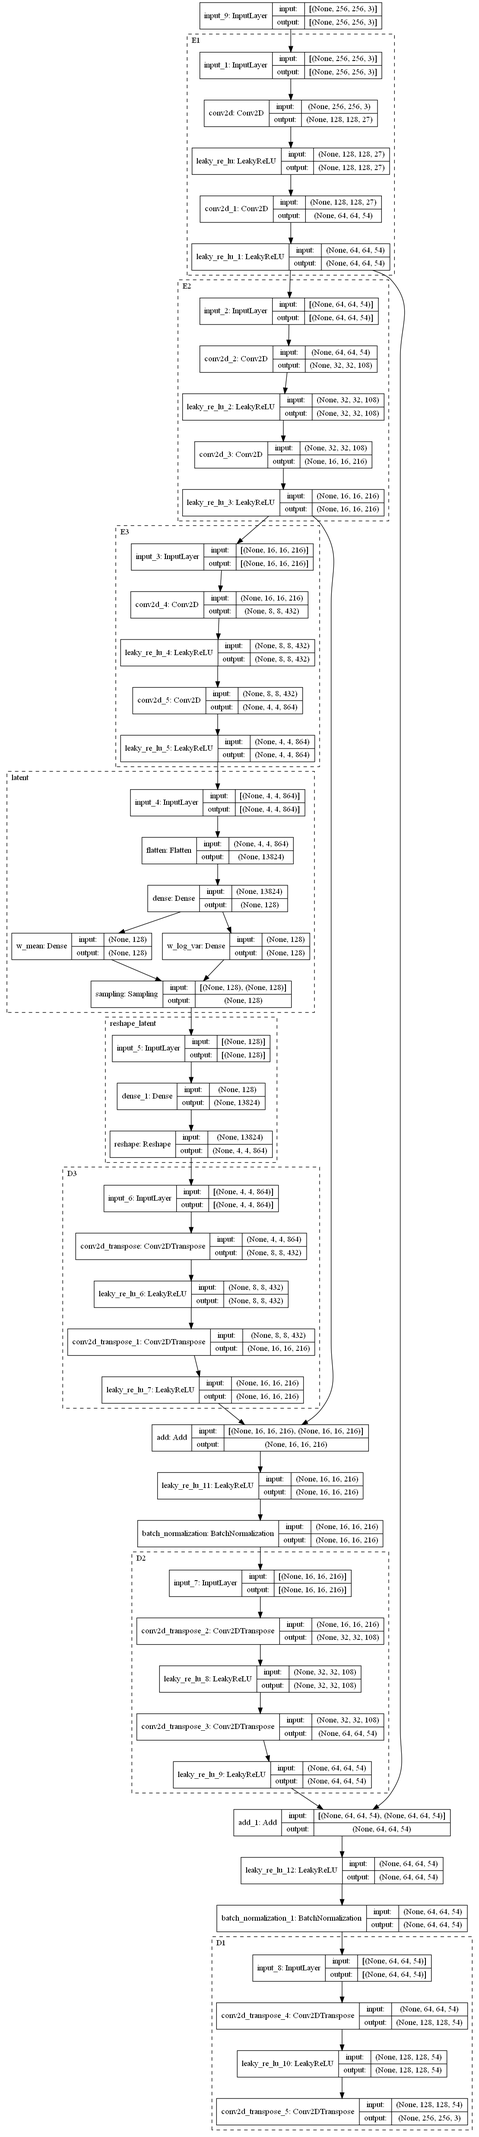
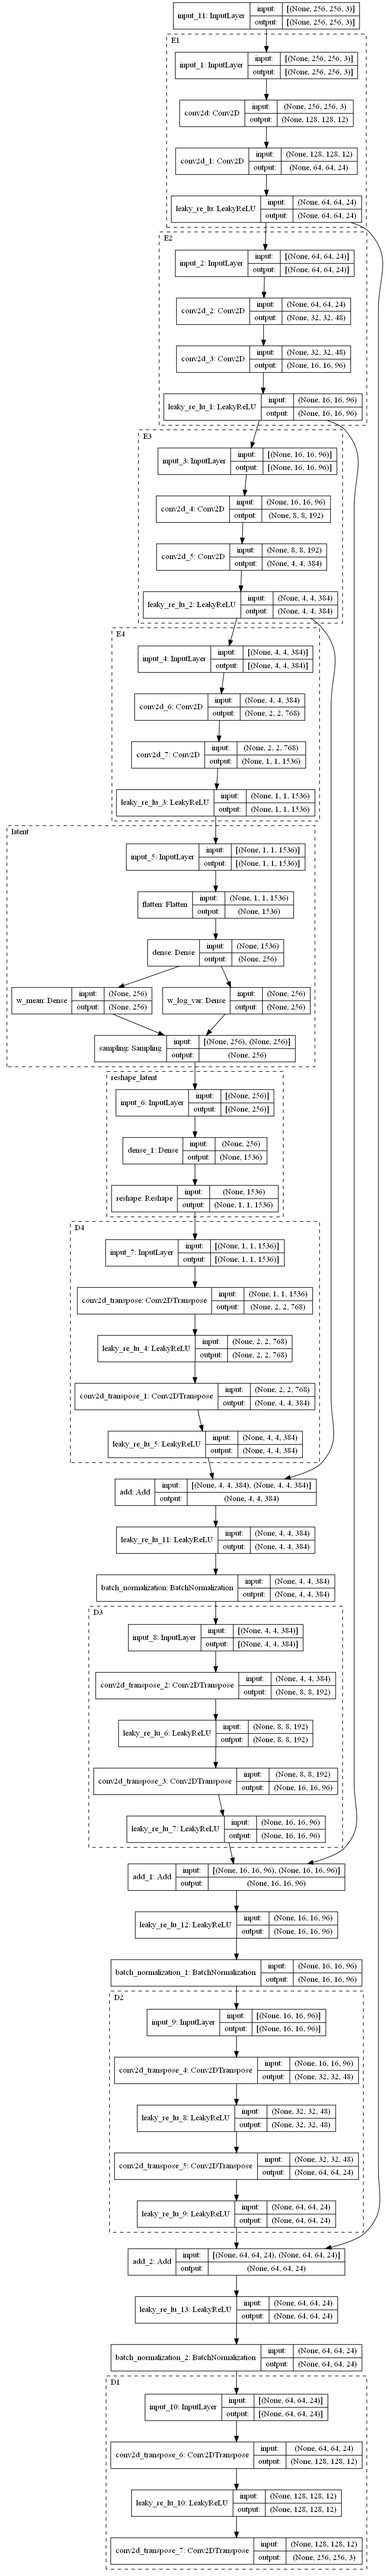
Continued improving model hyperparameters

Changed region(s): [[0.1517, 0.0, 0.9708, 0.9978]]

diff --git a/StyleNetV3.py b/StyleNetV3.py
@@ -1,5 +1,5 @@
 import tensorflow as tf
-import keract
+import numpy as np
 import os
 import time
 from tensorflow.python.keras.backend import set_session
@@ -15,11 +15,11 @@ sess = tf.compat.v1.InteractiveSession(config=tf.compat.v1.ConfigProto(gpu_optio
 set_session(sess)
 
 identity_lr = 1
-kl_lr = 0.06
+kl_lr = .1
 num_epochs = 200
-num_filters = 27
-batch_size = 16
-learning_rate = 1e-3
+num_filters = 6
+batch_size = 4
+learning_rate = 1e-4
 optimizer = tf.keras.optimizers.Adam(learning_rate=learning_rate)
 cross_entropy = tf.keras.losses.BinaryCrossentropy(from_logits=True)
 model_name = 'V3'
@@ -36,7 +36,7 @@ def lrelu_bn(inputs):
 
 def enc_unit(inp, filter_mult=1, name='enc'):
     x = conv2D(num_filters*filter_mult, kernel_size=(3, 3), strides=(2, 2), padding='same')(inp)
-    x = tf.keras.layers.LeakyReLU()(x)
+    # x = tf.keras.layers.LeakyReLU()(x)
     x = conv2D(num_filters*filter_mult*2, kernel_size=(3, 3), strides=(2, 2), padding='same')(x)
     x = tf.keras.layers.LeakyReLU()(x)
     return tf.keras.Model(inputs=inp, outputs=x, name=name)
@@ -63,9 +63,9 @@ def latent(inp, latent_dims=128, name='latent'):
     return tf.keras.Model(inputs=inp, outputs=[w, w_mean, w_log_var], name=name)
 
 
-def reshape_latent(inp, name='reshape_latent'):
-    x = tf.keras.layers.Dense(4 * 4 * 32 * num_filters, activation='relu')(inp)
-    x = tf.keras.layers.Reshape((4, 4, num_filters * 32))(x)
+def reshape_latent(inp, out_shape, name='reshape_latent'):
+    x = tf.keras.layers.Dense(4*4*4*4 * num_filters, activation='relu')(inp)
+    x = tf.keras.layers.Reshape(out_shape)(x)
     return tf.keras.Model(inputs=inp, outputs=x, name=name)
 
 
@@ -79,29 +79,35 @@ class AE_A(tf.keras.Model):
 
         inp1 = tf.keras.Input(shape=(256, 256, 3))
         print(inp1.get_shape())
-        self.enc1 = enc_unit(inp=inp1, filter_mult=1, name='E1')
+        self.enc1 = enc_unit(inp=inp1, filter_mult=2, name='E1')
         print(self.enc1.output_shape)
-        inp2 = tf.keras.Input(shape=(64, 64, 54))
-        self.enc2 = enc_unit(inp=inp2, filter_mult=4, name='E2')
+        inp2 = tf.keras.Input(shape=(64, 64, 4*num_filters))
+        self.enc2 = enc_unit(inp=inp2, filter_mult=8, name='E2')
         print(self.enc2.output_shape)
-        inp3 = tf.keras.Input(shape=(16, 16, 216))
-        self.enc3 = enc_unit(inp=inp3, filter_mult=16, name='E3')
+        inp3 = tf.keras.Input(shape=(16, 16, 4*4*num_filters))
+        self.enc3 = enc_unit(inp=inp3, filter_mult=32, name='E3')
         print(self.enc3.output_shape)
+        inp4 = tf.keras.Input(shape=(4, 4, 4*4*4*num_filters))
+        self.enc4 = enc_unit(inp=inp4, filter_mult=128, name='E4')
+        print(self.enc4.output_shape)
 
-        inp_latent = tf.keras.Input(shape=(4, 4, 864))
-        self.latent1 = latent(inp=inp_latent)
+        inp_latent = tf.keras.Input(shape=(1, 1, 4*4*4*4*num_filters))
+        self.latent1 = latent(inp=inp_latent, latent_dims=256)
         print(self.latent1.output_shape[0])
-        inp_reshape = tf.keras.Input(shape=(128,))
-        self.reshape_l = reshape_latent(inp_reshape)
+        inp_reshape = tf.keras.Input(shape=(256,))
+        self.reshape_l = reshape_latent(inp_reshape, out_shape=(1, 1, 4*4*4*4*num_filters))
         print(self.reshape_l.output_shape)
 
-        out3 = tf.keras.Input(shape=(4, 4, 864))
-        self.dec3 = dec_unit(inp=out3, filter_mult=8, name='D3')
+        out4 = tf.keras.Input(shape=(1, 1, 4*4*4*4*num_filters))
+        self.dec4 = dec_unit(inp=out4, filter_mult=64, name='D4')
+        print(self.dec4.output_shape)
+        out3 = tf.keras.Input(shape=(4, 4, 4*4*4*num_filters))
+        self.dec3 = dec_unit(inp=out3, filter_mult=16, name='D3')
         print(self.dec3.output_shape)
-        out2 = tf.keras.Input(shape=(16, 16, 216))
-        self.dec2 = dec_unit(inp=out2, filter_mult=2, name='D2')
+        out2 = tf.keras.Input(shape=(16, 16, 4*4*num_filters))
+        self.dec2 = dec_unit(inp=out2, filter_mult=4, name='D2')
         print(self.dec2.output_shape)
-        out1 = tf.keras.Input(shape=(64, 64, 54))
+        out1 = tf.keras.Input(shape=(64, 64, 4*num_filters))
         self.dec1 = dec_unit(inp=out1, last=True, filter_mult=1, name='D1')
         print(self.dec1.output_shape)
 
@@ -115,6 +121,8 @@ class AE_A(tf.keras.Model):
         tf.keras.models.save_model(model=self.enc1, filepath=dir + fname + '\\' + self.enc1.name)
         tf.keras.models.save_model(model=self.enc2, filepath=dir + fname + '\\' + self.enc2.name)
         tf.keras.models.save_model(model=self.enc3, filepath=dir + fname + '\\' + self.enc3.name)
+        tf.keras.models.save_model(model=self.enc4, filepath=dir + fname + '\\' + self.enc4.name)
+        tf.keras.models.save_model(model=self.dec4, filepath=dir + fname + '\\' + self.dec4.name)
         tf.keras.models.save_model(model=self.dec3, filepath=dir + fname + '\\' + self.dec3.name)
         tf.keras.models.save_model(model=self.dec2, filepath=dir + fname + '\\' + self.dec2.name)
         tf.keras.models.save_model(model=self.dec1, filepath=dir + fname + '\\' + self.dec1.name)
@@ -124,17 +132,24 @@ class AE_A(tf.keras.Model):
         self.enc1 = tf.keras.models.load_model(dir + fname + '\\' + self.enc1.name)
         self.enc2 = tf.keras.models.load_model(dir + fname + '\\' + self.enc2.name)
         self.enc3 = tf.keras.models.load_model(dir + fname + '\\' + self.enc3.name)
+        self.enc4 = tf.keras.models.load_model(dir + fname + '\\' + self.enc4.name)
+        self.dec4 = tf.keras.models.load_model(dir + fname + '\\' + self.dec4.name)
         self.dec3 = tf.keras.models.load_model(dir + fname + '\\' + self.dec3.name)
         self.dec2 = tf.keras.models.load_model(dir + fname + '\\' + self.dec2.name)
         self.dec1 = tf.keras.models.load_model(dir + fname + '\\' + self.dec1.name)
 
+    #@tf.function
     def call(self, x):
         x1 = self.enc1(x)
         x2 = self.enc2(x1)
         x3 = self.enc3(x2)
-        w = self.latent1(x3)[0]
+        x4 = self.enc4(x3)
+        w = self.latent1(x4)[0]
         w = self.reshape_l(w)
-        y3 = self.dec3(w)
+        y4 = self.dec4(w)
+        y4 = tf.keras.layers.Add()([x3, y4])
+        y4 = lrelu_bn(y4)
+        y3 = self.dec3(y4)
         y3 = tf.keras.layers.Add()([x2, y3])
         y3 = lrelu_bn(y3)
         y2 = self.dec2(y3)
@@ -147,15 +162,19 @@ class AE_A(tf.keras.Model):
         x1 = self.enc1(x)
         x2 = self.enc2(x1)
         x3 = self.enc3(x2)
-        w_hold = self.latent1(x3)
+        x4 = self.enc4(x3)
+        w_hold = self.latent1(x4)
         w = w_hold[0]
         w_mean = w_hold[1]
         w_log_var = w_hold[2]
         return w, w_mean, w_log_var
 
-    def decode(self, w, x1, x2):
+    def decode(self, w, x1, x2, x3):
         w = self.reshape_l(w)
-        y3 = self.dec3(w)
+        y4 = self.dec4(w)
+        y4 = tf.keras.layers.Add()([x3, y4])
+        y4 = lrelu_bn(y4)
+        y3 = self.dec3(y4)
         y3 = tf.keras.layers.Add()([x2, y3])
         y3 = lrelu_bn(y3)
         y2 = self.dec2(y3)
@@ -164,6 +183,7 @@ class AE_A(tf.keras.Model):
         y1 = self.dec1(y2)
         return y1
 
+    #@tf.function
     def train_model(self, fname=None):
         time.sleep(1)
         try:
@@ -172,10 +192,11 @@ class AE_A(tf.keras.Model):
         except Exception:
             print("File load failed.")
 
-        image_dataset, dataset_size = utils.create_dataset()
+        image_dataset, dataset_size = utils.create_dataset(batch_size=batch_size)
         dataset_size = dataset_size - 1
         print("Dataset size is", dataset_size)
         print("Total number of images is", dataset_size * batch_size)
+        record_batch = utils.record_steps(int(dataset_size/2))
 
         start_time = time.time()
         print("Beginning training at", start_time)
@@ -184,12 +205,11 @@ class AE_A(tf.keras.Model):
             print("Starting epoch {}/{}".format(i, num_epochs))
             start = time.time()
             batch_on = 0
-            for source in zip(image_dataset.take(int(dataset_size / 4))):
+            for source in zip(image_dataset.take(int(dataset_size / 2))):
                 try:
                     loss_identity, kl_loss = self.train_step(source, optimizer)
-                    if batch_on % 50 == 0:
-                        print("Beginning batch #" + str(batch_on), 'out of', int(dataset_size / 4), 'of size',
-                              batch_size)
+                    if batch_on % record_batch == 0:
+                        print("Beginning batch #" + str(batch_on), 'out of', int(dataset_size / 2), 'of size', batch_size)
                         self.loss_identity += [loss_identity]
                         self.kl_loss += [kl_loss]
                 except Exception:
@@ -197,25 +217,28 @@ class AE_A(tf.keras.Model):
                 batch_on += 1
             duration = time.time() - start
             print(int(duration / 60), "minutes &", int(duration % 60), "seconds, for epoch", i)
-            if i % 20 == 0:
-                self.loss = {'Identity': self.loss_identity, 'KL': self.kl_loss}
+            if i % 10 == 0:
+                self.loss['Identity'] = self.loss_identity
+                self.loss['KL'] = self.kl_loss
                 utils.test_model(self, source, num=i, name=model_name)
-            if i % 50 == 0:
-                self.loss = {'Identity': self.loss_identity, 'KL': self.kl_loss}
+            if i % 10 == 0:
+                self.loss['Identity'] = self.loss_identity
+                self.loss['KL'] = self.kl_loss
                 utils.test_model(self, source, test=True, name=model_name)
-                act = keract.get_activations(self, source)
-                keract.display_activations(act)
+                #act = keract.get_activations(self, source)
+                #keract.display_activations(act)
             print('\n')
-            image_dataset, _ = utils.create_dataset()
+            time.sleep(.1)
+            image_dataset, _ = utils.create_dataset(batch_size=batch_size)
             self.save(fname)
-            time.sleep(0.1)
         print('Training completed in', int((time.time() - start_time) / 60), "minutes &", int(duration % 60), "seconds")
 
+    #@tf.function
     def train_step(self, source, optimizer):
         with tf.GradientTape() as tape:
             w, w_mean, w_log_var = self.encode(source)
-            prediction = self(source)
-            loss_identity = tf.abs(identity_lr * cross_entropy(source[0], prediction))
+            prediction = self(source[0])
+            loss_identity = identity_lr * tf.reduce_mean(tf.reduce_sum(cross_entropy(source[0], prediction))) #+ 0.1 * tf.reduce_mean((source[0]-prediction)**2))
             kl_loss = -0.5 * (1 + w_log_var - tf.square(w_mean) - tf.exp(w_log_var))
             kl_loss = kl_lr * tf.reduce_mean(tf.reduce_sum(kl_loss, axis=1))
             loss = loss_identity + kl_loss
@@ -233,7 +256,7 @@ model = AE_A()
 tf.keras.utils.plot_model(model.build_graph(), model_name+".png", show_shapes=True, expand_nested=True)
 model.train_model(model_name)
 model.load(model_name)
-image_dataset, _ = utils.create_dataset()
+image_dataset, _ = utils.create_dataset(batch_size=batch_size)
 
 for source, style in zip(image_dataset.take(1), image_dataset.take(1)):
     utils.test_model(model, source, style, test=True, name=model_name)

diff --git a/StyleNetV4.py b/StyleNetV4.py
@@ -1,0 +1,71 @@
+import tensorflow as tf
+import numpy as np
+from tensorflow.keras.layers import Conv2D, Conv2DTranspose, Input, MaxPooling2D, Add, BatchNormalization, LeakyReLU, Reshape, Flatten, Dense
+import utils
+import tensorflow.keras.backend as K
+import tensorflow_datasets as tfds
+
+input_img = Input(shape=(128, 128, 3))
+# Encoder
+# strides of 2,2 works like max pooling and downsamples the image
+y = Conv2D(32, (3, 3), padding='same',strides =(2,2))(input_img)
+y = LeakyReLU()(y)
+y = Conv2D(64, (3, 3), padding='same',strides =(2,2))(y)
+y = LeakyReLU()(y)
+y2 = Conv2D(128, (3, 3), padding='same',strides =(2,2))(y)
+y = LeakyReLU()(y2)
+y = Conv2D(256, (3, 3), padding='same',strides =(2,2))(y)
+y = LeakyReLU()(y)
+y1 = Conv2D(256, (3, 3), padding='same',strides =(2,2))(y)
+y = LeakyReLU()(y1)
+y = Conv2D(512, (3, 3), padding='same',strides =(2,2))(y)
+y = LeakyReLU()(y)
+y = Conv2D(1024, (3, 3), padding='same',strides =(2,2))(y)
+y = LeakyReLU()(y)
+vol = y.shape # shape of the final convolutional layer
+x = Flatten()(y)
+latent = Dense(128,activation='relu')(x) # bottleneck layer to control the information flow
+
+def lrelu_bn(inputs):
+ lrelu = LeakyReLU()(inputs)
+ bn = BatchNormalization()(lrelu)
+ return bn
+
+# Decoder
+y = Dense(np.prod(vol[1:]), activation='relu')(latent) # accepting the output from the bottleneck layer
+y = Reshape((vol[1], vol[2], vol[3]))(y)
+y = Conv2DTranspose(1024, (3,3), padding='same')(y)
+y = LeakyReLU()(y)
+y = Conv2DTranspose(512, (3,3), padding='same',strides=(2,2))(y)
+y = LeakyReLU()(y)
+y = Conv2DTranspose(256, (3,3), padding='same',strides=(2,2))(y)
+y= Add()([y1, y]) # remove to run model without skip connections
+y = lrelu_bn(y)  # remove to run model without skip connections
+y = Conv2DTranspose(256, (3,3), padding='same',strides=(2,2))(y)
+y = LeakyReLU()(y)
+y = Conv2DTranspose(128, (3,3), padding='same',strides=(2,2))(y)
+y= Add()([y2, y]) # remove to run model without skip connections
+y = lrelu_bn(y) # remove to run model without skip connections
+y = Conv2DTranspose(64, (3,3), padding='same',strides=(2,2))(y)
+y = LeakyReLU()(y)
+y = Conv2DTranspose(32, (3,3), padding='same',strides=(2,2))(y)
+y = LeakyReLU()(y)
+y = Conv2DTranspose(3, (3,3), activation='sigmoid', padding='same',strides=(2,2))(y)
+
+model_1 = tf.keras.Model(input_img,y)
+model_1.summary()
+
+def make_iterator(dataset):
+    iterator = dataset.make_one_shot_iterator()
+    next_val = iterator.get_next()
+
+    with K.get_session().as_default() as sess:
+        while True:
+            *inputs, labels = sess.run(next_val)
+            yield inputs, labels
+
+X_train = utils.create_dataset(32)
+X_train = tfds.as_numpy(X_train)
+
+model_1.compile(optimizer=tf.keras.optimizers.Adam(0.001,beta_1=0.9), loss='binary_crossentropy',metrics=['accuracy'])
+history_2 = model_1.fit(X_train,batch_size = 32,epochs = 200)

diff --git a/utils.py b/utils.py
@@ -68,6 +68,11 @@ def test_model(model, source=None, style=None, num='0', test=False, name='test')
         pred.save(os.path.join('pred' + name, 'epoch_' + str(num) + '.png'))
 
 
+def record_steps(num=0):
+    num -= num % 4
+    return num/4
+
+
 class Sampling(tf.keras.layers.Layer):
     def call(self, inputs):
         z_mean, z_log_var = inputs
